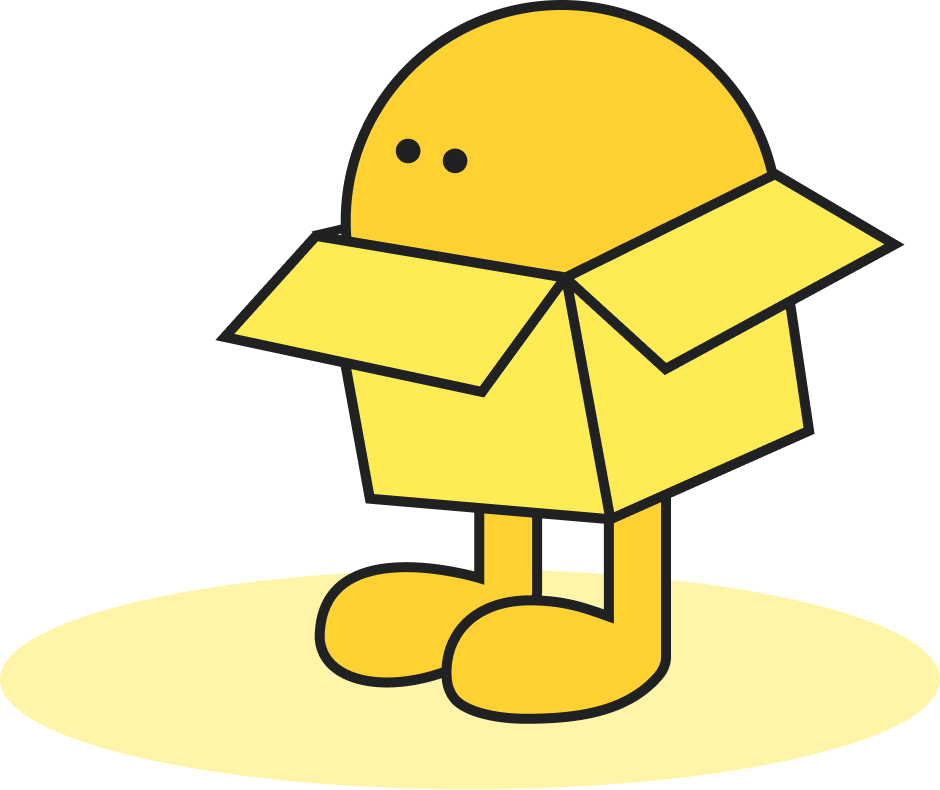
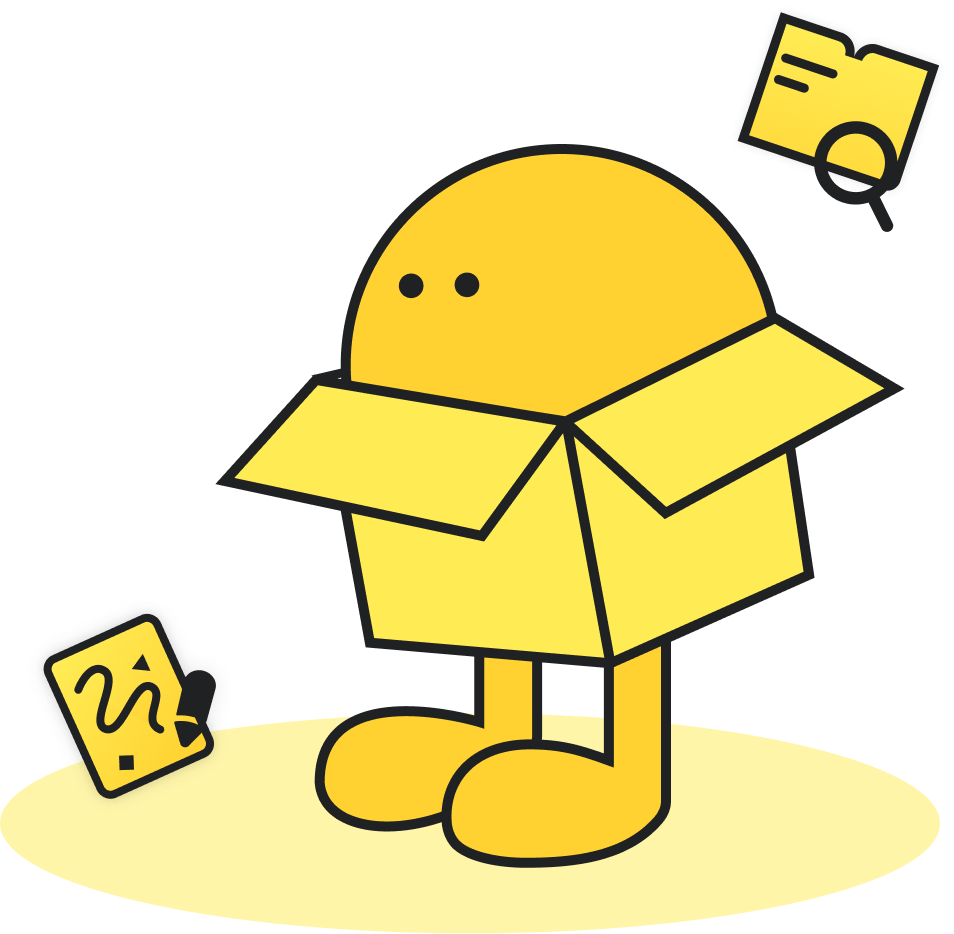
design: #124 update home background image

diff --git a/src/screens/main/Main.style.ts b/src/screens/main/Main.style.ts
@@ -47,10 +47,10 @@ export const Title = styled.Text`
 
 export const BackgroundImage = styled.Image`
   position: absolute;
-  width: 235px;
-  height: 197.344px;
-  right: -17px;
-  top: 25px;
+  width: 238.334px;
+  height: 231.344px;
+  right: -10.33px;
+  top: 5px;
 `
 
 export const ArchivingCardList = styled(FlatList<ArchivingInfo>)`
